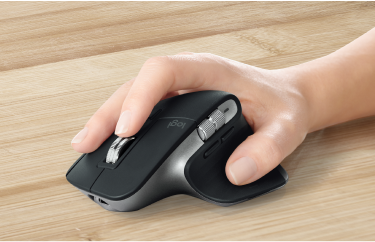
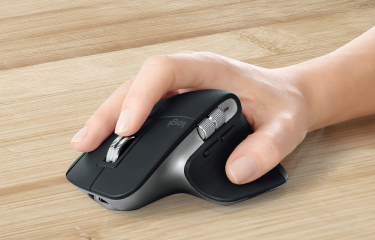
mobile done

diff --git a/index.html b/index.html
@@ -82,19 +82,19 @@
             </div>
             <div class="carousel-inner">
                 <div class="carousel-item active">
-                    <img src="/img/surface_wood.jpg" class="d-block w-100" alt="дерево">
+                    <img src="/img/surface_wood.jpg" class="d-block m-auto" alt="дерево">
                 </div>
                 <div class="carousel-item">
-                    <img src="/img/surface_glass.png" class="d-block w-100" alt="стекло">
+                    <img src="/img/surface_glass.png" class="d-block m-auto" alt="стекло">
                 </div>
                 <div class="carousel-item">
-                    <img src="/img/surface_linoleum.png" class="d-block w-100" alt="линолиум">
+                    <img src="/img/surface_linoleum.png" class="d-block m-auto" alt="линолиум">
                 </div>
                 <div class="carousel-item">
-                    <img src="/img/surface_cloth.png" class="d-block w-100" alt="ткань">
+                    <img src="/img/surface_cloth.png" class="d-block m-auto" alt="ткань">
                 </div>
                 <div class="carousel-item">
-                    <img src="/img/surface_marble.png" class="d-block w-100" alt="мрамор">
+                    <img src="/img/surface_marble.png" class="d-block m-auto" alt="мрамор">
                 </div>
             </div>
             <button class="carousel-control-prev" type="button" data-bs-target="#carouselSurface" data-bs-slide="prev">
@@ -120,18 +120,20 @@
             Клавиатура MX Keys отслеживает перемещение курсора мыши MX Master 3, благодаря чему ваш
             текст появится там, где вы работаете в текущий момент.
         </p>
-        <ol class="flow__list">
-            <li class="flow__list-item text">Нажмите и удерживайте папку, чтобы переместить её</li>
-            <li class="flow__list-item text">Перенесите папку на любой из соседних экранов</li>
-            <li class="flow__list-item text">Да, всё так просто!</li>
-        </ol>
+        <div class="flow__list">
+            <ol class="flow__list-ol">
+                <li class="flow__list-item text">Нажмите и удерживайте папку, чтобы переместить её</li>
+                <li class="flow__list-item text">Перенесите папку на любой из соседних экранов</li>
+                <li class="flow__list-item text">Да, всё так просто!</li>
+            </ol>
+        </div>
     </section>
-    <section class="custom">
-        <div class="custom__heading heading">С ИНДИВИДУАЛЬНЫМИ НАСТРОЙКАМИ</div>
-        <p class="custom__text text">
+    <section class="settings">
+        <div class="settings__heading heading">С ИНДИВИДУАЛЬНЫМИ НАСТРОЙКАМИ</div>
+        <p class="settings__text text">
             Мышь MX Master 3 адаптируется под ваши рабочие процессы. Благодаря индивидуальным
             настройкам, вы сможете настроить кнопки и жесты практически под любое используемое приложение.</p>
-        <div class="custom__carousel">
+        <div class="settings__carousel">
             <div id="carouselFunction" class="carousel slide" data-bs-ride="carousel">
                 <div class="carousel-indicators">
                     <button type="button" data-bs-target="#carouselFunction" data-bs-slide-to="0" class="active"
@@ -167,20 +169,10 @@
                         <img src="/img/function_5.png" class="d-block m-auto" alt="функции 5">
                     </div>
                 </div>
-                <button class="carousel-control-prev" type="button" data-bs-target="#carouselFunction"
-                    data-bs-slide="prev">
-                    <span class="carousel-control-prev-icon" aria-hidden="true"></span>
-                    <span class="visually-hidden">Назад</span>
-                </button>
-                <button class="carousel-control-next" type="button" data-bs-target="#carouselFunction"
-                    data-bs-slide="next">
-                    <span class="carousel-control-next-icon" aria-hidden="true"></span>
-                    <span class="visually-hidden">Далее</span>
-                </button>
             </div>
         </div>
-        <div class="custom__apps">
-            <div class="custom__icons">
+        <div class="settings__apps">
+            <div class="settings__icons">
                 <svg width="23" height="23">
                     <use xlink:href="/img/icons.svg#icon-1"></use>
                 </svg>
@@ -199,7 +191,7 @@
                 </svg>
                 <img src="/img/icon_7.svg" alt="медиа">
             </div>
-            <p class="custom__footer text">
+            <p class="settings__footer text">
                 Начните работать продуктивнее с момента покупки — устройство
                 предварительно оптимизировано под популярные приложения
                 на Windows и Mac.
@@ -207,7 +199,7 @@
         </div>
 
     </section>
-    <section class="desing">
+    <section class="design">
         <div class="design__heading heading">
             КОМФОРТНО.<br>ЭРГОНОМИЧНО. ИНТУИТИВНО.
         </div>
@@ -216,15 +208,18 @@
             колесико прокрутки для большого пальца
             и расположение кнопок жестов, с которыми вы будете творить уверенно как никогда.
         </p>
-    </section>
-    <section class="speed">
-        <div class="speed__heading heading">
+        <div class="design__img design__img_1">
+        </div>
+        <div class="design__heading heading">
             БЫСТРЕЕ,<br>ЧЕМ КОГДА-ЛИБО
         </div>
-        <p class="speed__text text">
+        <p class="design__text text">
             Компьютерная мышь MX Master 3 предлагает ультимативный механизм прокрутки
             со скоростью 1000 строк за 1 секунду. С точностью до пикселя. Бесшумно.
         </p>
+        <div class="design__img design__img_2">
+        </div>
+
     </section>
     <section class="copyright">
         <p class="copyright__text">

diff --git a/css/style.css b/css/style.css
@@ -29,7 +29,7 @@ body {
 }
 
 .top {
-  background: #e0e1e2;
+  background-color: #e0e1e2;
   padding-top: 25px;
   padding-bottom: 48px;
 }
@@ -58,12 +58,12 @@ body {
 }
 
 .wireless {
-  background: #ededed;
+  background-color: #ededed;
   padding-top: 42px;
   padding-bottom: 18px;
 }
 
-.wireless__header {
+.wireless__icon {
   display: flex;
   justify-content: center;
   margin-bottom: 27px;
@@ -111,7 +111,7 @@ body {
 .surface__text {
   width: 247px;
   margin: auto;
-  margin-bottom: 20px;
+  margin-bottom: 30px;
 }
 
 .surface__info {
@@ -123,10 +123,142 @@ body {
 
 .surface__info-item {
   border: 1px solid #2f3132;
-  width: 166px;
+  flex-basis: 166px;
   padding: 0.5rem 17px;
   min-height: 94px;
   display: flex;
   flex-direction: column;
   justify-content: center;
+}
+
+.surface__carousel-header {
+  font-size: 14px;
+  line-height: 16px;
+  margin-top: 27px;
+  margin-bottom: 70px;
+}
+
+.surface__footer {
+  width: 308px;
+  margin: auto;
+}
+
+.flow {
+  background-color: #ededed;
+  padding-top: 70px;
+  padding-bottom: 218px;
+  background-image: url(/img/High_Resolution_JPG-MX\ Lifestyle\ 2346\ 1.png);
+  background-repeat: no-repeat;
+  background-position: bottom;
+}
+
+.flow__heading {
+  margin-bottom: 20px;
+}
+
+.flow__text {
+  margin: auto;
+  margin-bottom: 36px;
+  width: 308px;
+}
+
+.flow__list {
+  width: 375px;
+  margin: auto;
+}
+
+.flow__list-ol {
+  margin-bottom: 0;
+  padding-left: 54px;
+}
+
+.flow__list-item {
+  text-align: left;
+  list-style-position: inside;
+  margin-bottom: 16px;
+  width: 224px;
+}
+
+.settings {
+  background-color: #ededed;
+  padding-top: 70px;
+}
+
+.settings__heading {
+  margin-bottom: 20px;
+}
+
+.settings__text {
+  width: 308px;
+  margin: auto;
+  margin-bottom: 35px;
+}
+
+.settings__carousel {
+  margin-bottom: 96px;
+}
+
+.settings__apps {
+  background: #c4c4c4;
+  padding-top: 23px;
+  padding-bottom: 26px;
+}
+
+.settings__icons {
+  display: flex;
+  justify-content: space-between;
+  width: 324px;
+  margin: auto;
+  margin-bottom: 20px;
+}
+
+.settings__footer {
+  width: 308px;
+  margin: auto;
+  color: #fff;
+}
+
+.design {
+  padding-top: 70px;
+}
+
+.design__heading {
+  margin-bottom: 20px;
+}
+
+.design__text {
+  width: 307px;
+  margin: auto;
+  margin-bottom: 20px;
+}
+
+.design__img {
+  background-repeat: no-repeat;
+  background-position: center;
+  background-size: contain;
+  height: 310px;
+}
+
+.design__img_1 {
+  background-image: url(/img/design.jpg);
+  margin-bottom: 70px;
+}
+
+.design__img_2 {
+  background-image: url(/img/speed.jpg);
+}
+
+.copyright {
+  background-color: #2f3132;
+  padding-top: 22px;
+  padding-bottom: 37px;
+  margin: auto;
+}
+
+.copyright__text {
+  font-size: 7px;
+  line-height: 8px;
+  text-align: center;
+  color: #c7c8c8;
+  margin-bottom: 0;
 }
